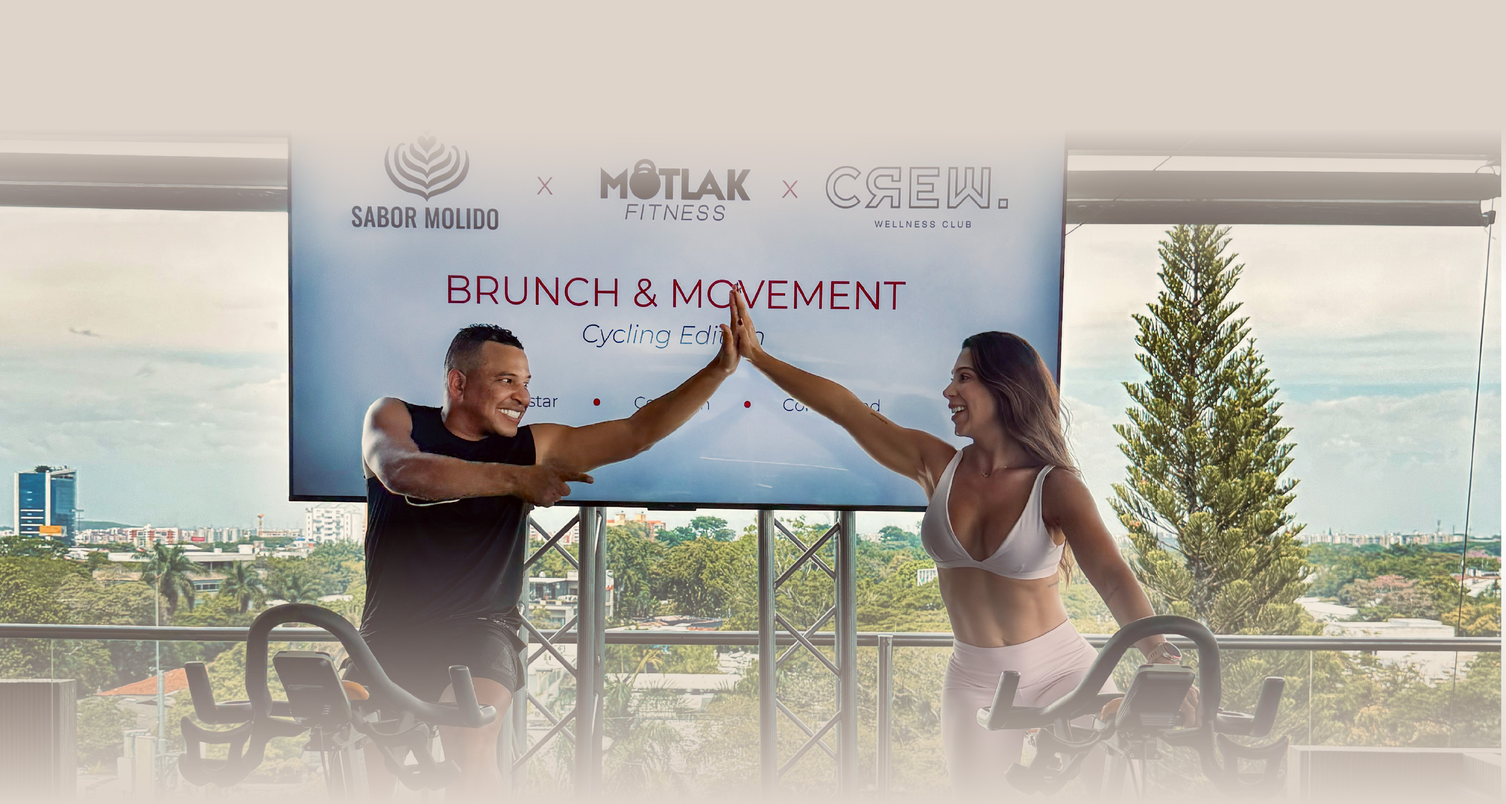
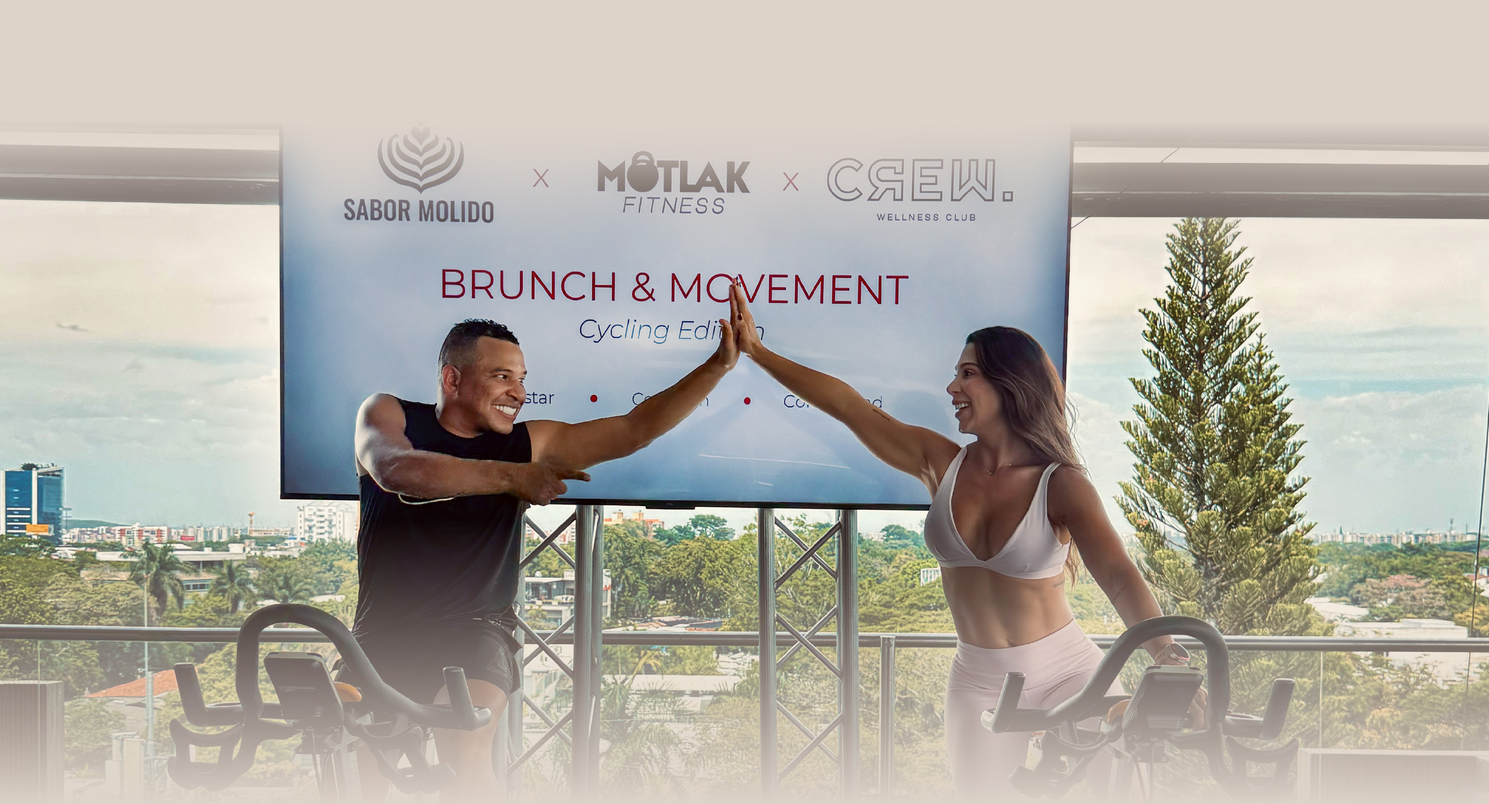
modificacion responsive e imagenes

Changed region(s): [[0.0, 0.1562, 1.0, 0.9684], [0.9014, 0.4686, 0.9325, 0.4998]]

diff --git a/index.html b/index.html
@@ -97,7 +97,7 @@
           <img src="./img/brunch-and-movement-banner1.png" alt="Brunch & Movement Evento" class="img-fluid rounded-4 shadow-sm w-100 object-fit-cover">
         </div> -->
         <div class="col-md-10">
-          <img src="./img/brunch-and-movement-banner.jpeg" alt="Diana Motlak & Davinson Crew" class="img-fluid rounded-4 shadow-sm w-100 object-fit-cover">
+          <img src="./img/brunch-and-movement-banner.jpeg" alt="Diana Motlak & Davinson Crew" class="img-fluid rounded-4 w-100 object-fit-cover">
         </div>
       </div>
     </div>
